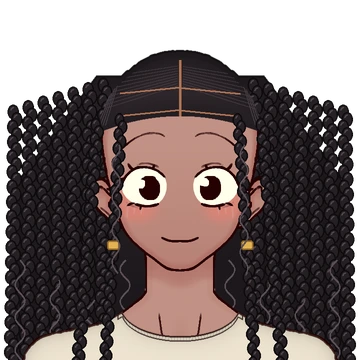
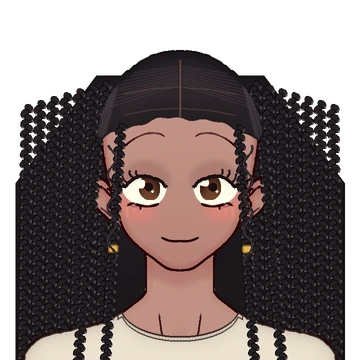
Bloom: prettier portrait eyes, lip makeup, softer parts, lower hairline, better hair texture
- Portrait eyes: almond shape, winged liner, curled lashes, warm brown irises with a second sparkle, soft lid shadow
- Makeup tab in the wardrobe: bare, clear gloss, rosy, cocoa (coins) and berry (Wellness level 2); lips show on the chat portrait and tint mini-me's mouth
- Thin, soft hair parts; hairline sits lower; coily texture on puffs and plaited texture on braids
- Code-drawn baby hair removed until Kymari's hand-drawn edges arrive

Claude-Session: https://claude.ai/code/session_016YGNXWNPLjq7FU6Tui6e5G

Changed region(s): [[0.0, 0.1528, 1.0, 1.0], [0.6111, 0.7639, 0.6417, 0.825]]

diff --git a/index.html b/index.html
@@ -717,6 +717,8 @@ nav.tabs a[href="#shop"]{background-color:var(--green)}
 .bb-earn{background:var(--paper);border-radius:12px;padding:.8rem 1rem;box-shadow:var(--shadow);margin-bottom:1rem;font-size:.9rem}
 #bb-chat .chat{display:grid;grid-template-columns:160px 1fr;gap:1rem;align-items:center}
 #bb-chat .chat img{width:160px;height:160px;border-radius:12px;background:var(--pink-2);object-fit:cover}
+.bb-pwrap{position:relative;width:160px;height:160px}
+#bb-chat .chat #bb-lips{position:absolute;inset:0;background:none}
 #bb-chat .dlg-body{background-image:none;background:#fffdf8}
 #bb-chat,#bb-chat .btn{color:#2b2a22}
 #bb-chat .btn{background:#fff;font-size:.9rem;font-weight:600}
@@ -725,7 +727,7 @@ nav.tabs a[href="#shop"]{background-color:var(--green)}
 #bb-chat .dlg-head h2{color:var(--ink)}
 #bb-say{font-family:var(--body);font-size:1.08rem;font-weight:500;line-height:1.55;color:#2b2a22;background:#fff;border:1.5px solid rgba(43,42,34,.25);border-radius:12px;padding:.8rem 1rem;margin:0}
 #bb-tasks .mini{font-size:.95rem;color:#2b2a22;background:#fff}
-@media (max-width:760px){ #bb-chat .chat{grid-template-columns:1fr} #bb-chat .chat img{width:120px;height:120px} }
+@media (max-width:760px){ #bb-chat .chat{grid-template-columns:1fr} #bb-chat .chat img,.bb-pwrap{width:120px;height:120px} }
 .bb-pet{position:absolute;z-index:1;border:0;background:none;padding:0;cursor:pointer;left:calc(var(--px,170)*1px*var(--s));top:calc((101px - var(--h)*1px)*var(--s));width:calc(var(--w)*1px*var(--s));height:calc(var(--h)*1px*var(--s))}
 .bb-me{z-index:2}
 .bb-pet-img{--s:4;display:block;width:calc(var(--w)*1px*var(--s));height:calc(var(--h)*1px*var(--s));background:var(--sheet,url(assets/bloom-pets.webp)) no-repeat;background-size:calc(var(--sw,96)*1px*var(--s)) calc(var(--sh,138)*1px*var(--s));background-position:calc(var(--fx)*-1px*var(--s)) calc(var(--fy)*-1px*var(--s));image-rendering:pixelated}
@@ -781,6 +783,7 @@ nav.tabs a[href="#shop"]{background-color:var(--green)}
 .cas-tile:hover,.cas-tile:focus-visible{transform:translateY(-2px);border-color:var(--pink-deep)}
 .cas-tile[aria-pressed=true]{border-color:#2b1e2e;box-shadow:0 0 0 3px #f8d7e3,0 3px 0 #2b1e2e}
 .cas-thumb{width:96px;height:84px;background-repeat:no-repeat;background-size:calc(26px*var(--S)) auto;background-position:center calc(var(--cy)*-1px*var(--S));image-rendering:pixelated;border-radius:8px;background-color:#fff4e6}
+.cas-thumb.lips{background-size:576px 576px;background-position:-240px -350px;image-rendering:auto}
 .cas-tile.locked .cas-thumb{filter:grayscale(.7);opacity:.55}
 .cas-tile.locked .cas-name{opacity:.6}
 .cas-need{font-size:.72rem;color:#7b6a5c;font-weight:700}
@@ -1006,7 +1009,7 @@ nav.tabs a[href="#shop"]{background-color:var(--green)}
 <dialog id="bb-chat" aria-labelledby="bb-say">
   <div class="dlg-head" style="background:#f9ecd9"><h2>My World</h2><button class="x" data-close aria-label="Close">✕</button></div>
   <div class="dlg-body">
-    <div class="chat"><img id="bb-portrait" alt=""><p id="bb-say"></p></div>
+    <div class="chat"><div class="bb-pwrap"><img id="bb-portrait" alt=""><img id="bb-lips" alt="" hidden></div><p id="bb-say"></p></div>
     <div class="mini-list" id="bb-tasks" hidden></div>
   </div>
   <div class="dlg-foot"><div class="row">
@@ -2249,13 +2252,15 @@ const BB_WEAR={
     {id:"sweater",name:"Leaf sweater",lv:["well",2],c:["ecdec4","cec0a6"]},{id:"hoodie_petrol",name:"Petrol hoodie",lv:["home",3],c:["1c5c6e","0e4152"]},{id:"tank",name:"White tank",price:15,c:["faf7f0","d2ccc2"]}],
   bottom:[{id:"sage",name:"Sage skirt",price:0,sw:"97b479"},{id:"denim",name:"Denim skirt",price:20,c:["4060a8","304884"]},{id:"amber",name:"Amber skirt",price:15,c:["f4aa34","d68424"]},
     {id:"tan",name:"Tan skirt",price:15,c:["c4aa70","a08856"]},{id:"black",name:"Black skirt",price:15,c:["3a3844","24222c"]}],
-  legs:[{id:"black",name:"Black socks",price:0,sw:"221d20"},{id:"white",name:"White socks",price:12,socks:1,sw:"faf7f0"},{id:"boots",name:"Brown boots",price:20,c:["5c3a2c","42281e"],from:5},{id:"rain",name:"Rain boots",lv:["clean",3],c:["facc3c","d8a828"],from:4}]
+  legs:[{id:"black",name:"Black socks",price:0,sw:"221d20"},{id:"white",name:"White socks",price:12,socks:1,sw:"faf7f0"},{id:"boots",name:"Brown boots",price:20,c:["5c3a2c","42281e"],from:5},{id:"rain",name:"Rain boots",lv:["clean",3],c:["facc3c","d8a828"],from:4}],
+  lips:[{id:"none",name:"Bare lips",price:0,sw:"c98a74"},{id:"gloss",name:"Clear gloss",price:0,sw:"e0a99c",px:"c8786c"},{id:"rosy",name:"Rosy combo",price:15,sw:"d6767f",px:"c85a68"},
+    {id:"cocoa",name:"Cocoa combo",price:15,sw:"aa6856",px:"8e4c3c"},{id:"berry",name:"Berry",lv:["well",2],sw:"922c46",px:"8a2840"}]
 };
-const BB_SLOTS=[["hair","Hair"],["top","Tops"],["bottom","Skirts"],["legs","Socks & shoes"]];
+const BB_SLOTS=[["hair","Hair"],["top","Tops"],["bottom","Skirts"],["legs","Socks & shoes"],["lips","Makeup"]];
 function bbWearItem(slot,id){ return BB_WEAR[slot].find(i=>i.id===id)||BB_WEAR[slot][0]; }
 function bbOwnsWear(b,slot,id){ const it=bbWearItem(slot,id); if(it.lv) return bbLevel(b.xp[it.lv[0]]).level>=it.lv[1]; return !it.price || b.closet.includes(slot+":"+id); }
 function bbLockText(it){ if(it.lv){ const k=BB_SKILLS.find(q=>q.id===it.lv[0]); return `${k.name} level ${it.lv[1]}`; } return `${it.price} coins`; }
-function bbFancy(it){ return !!(it.price||it.lv); }   // anything that isn't a starter piece
+function bbFancy(it){ return !!(it.price||it.lv||it.px); }   // anything that isn't a starter piece
 function bbSwatch(it){ const c=it.stripe?`repeating-linear-gradient(180deg,#${it.stripe[0]} 0 6px,#${it.stripe[2]} 6px 12px)`:"#"+(it.sw||(it.c&&it.c[0])); return `<span class="bb-swatch" style="background:${c}" aria-hidden="true"></span>`; }
 function bbNeed(l){ return 40+20*(l-1); }   // XP to go from level l to l+1
 function bbLevel(xp){ let l=1; while(xp>=bbNeed(l)){ xp-=bbNeed(l); l++; } return {level:l, into:xp, need:bbNeed(l)}; }
@@ -2266,7 +2271,7 @@ const BB_LINES={
   proud:"You did it! I'm really proud of you."
 };
 const bbUI={editing:false, selected:null, fresh:null, levelUp:null, dressing:false};
-function bb(){ const d=state.meta.bloom||{}; return {coins:d.coins||0, owned:d.owned||BB_ITEMS.filter(i=>i.starter).map(i=>i.id), stored:d.stored||[], pos:d.pos||{}, flip:d.flip||{}, rewarded:d.rewarded||{}, since:d.since||0, lastWin:d.lastWin||0, pets:d.pets||[], pet:d.pet||null, closet:d.closet||[], wear:Object.assign({hair:"curls",top:"cream",bottom:"sage",legs:"black"},d.wear||{}), xp:Object.assign({clean:0,home:0,well:0},d.xp||{})}; }
+function bb(){ const d=state.meta.bloom||{}; return {coins:d.coins||0, owned:d.owned||BB_ITEMS.filter(i=>i.starter).map(i=>i.id), stored:d.stored||[], pos:d.pos||{}, flip:d.flip||{}, rewarded:d.rewarded||{}, since:d.since||0, lastWin:d.lastWin||0, pets:d.pets||[], pet:d.pet||null, closet:d.closet||[], wear:Object.assign({hair:"curls",top:"cream",bottom:"sage",legs:"black",lips:"none"},d.wear||{}), xp:Object.assign({clean:0,home:0,well:0},d.xp||{})}; }
 function bbSave(b){ putMeta({bloom:JSON.parse(JSON.stringify(b))}); }
 function bloomRewards(){
   const b=bb(); let changed=false; const ups=[];
@@ -2317,7 +2322,7 @@ function viewWorld(){
   <p class="bb-earn">Levels grow when you finish Board tasks in Cleaning, Home or Wellness (Mindfulness counts too): tiny 10 XP, small 20, big 40.</p>`;
 }
 // Wardrobe dialog: try anything on, keep what you own.
-const BB_CROP={hair:[0,26],top:[15,16],bottom:[27,12],legs:[34,17]};
+const BB_CROP={hair:[0,26],top:[15,16],bottom:[27,12],legs:[34,17],lips:[6,12]};
 const cas={wear:null, slot:"hair", view:0};
 function bbOpenCas(){ cas.wear=Object.assign({},bb().wear); cas.view=0; bbCasRender(); $("#bb-cas").showModal(); }
 function bbCasStage(){ const im=$("#cas-me"); const kind=cas.view===0?"front":"side";
@@ -2330,7 +2335,10 @@ function bbCasRender(){ const b=bb();
       <span class="cas-thumb" data-thumb="${it.id}" style="--S:${S};--cy:${cy}"></span>
       ${own?"":`<img class="bb-lock" src="assets/bloom-ico-lock.webp" alt="">`}
       <span class="cas-name">${esc(it.name)}</span>${own?"":`<span class="cas-need">${bbLockText(it)}</span>`}</button>`; }).join("");
-  BB_WEAR[cas.slot].forEach(it=>{ const w=Object.assign({},cas.wear,{[cas.slot]:it.id});
+  if(cas.slot==="lips"){ const por=bbPortraitPath("steady");
+    BB_WEAR.lips.forEach(it=>{ const el=document.querySelector(`[data-thumb="${it.id}"]`); if(!el) return; el.classList.add("lips");
+      el.style.backgroundImage=(it.id==="none"?"":`url(assets/bloom-lips-${it.id}-steady.webp),`)+`url(${por})`; }); }
+  else BB_WEAR[cas.slot].forEach(it=>{ const w=Object.assign({},cas.wear,{[cas.slot]:it.id});
     bbRendered(w,"front",0).then(u=>{ const el=document.querySelector(`[data-thumb="${it.id}"]`); if(el) el.style.backgroundImage=`url(${u})`; }); });
   const locked=BB_SLOTS.map(([slot])=>[slot,bbWearItem(slot,cas.wear[slot])]).filter(([slot,it])=>!bbOwnsWear(b,slot,it.id));
   const tr=$("#cas-try"); tr.hidden=!locked.length;
@@ -2396,7 +2404,8 @@ function bbHex(h){ return [0,2,4].map(i=>parseInt(h.slice(i,i+2),16)); }
 function bbRecolor(img,w){
   const c=document.createElement("canvas"); c.width=img.naturalWidth; c.height=img.naturalHeight; const x=c.getContext("2d"); x.drawImage(img,0,0);
   const top=bbWearItem("top",w.top), bot=bbWearItem("bottom",w.bottom), legs=bbWearItem("legs",w.legs);
-  if(!bbFancy(top)&&!bbFancy(bot)&&!bbFancy(legs)) return c.toDataURL();
+  const lip=bbWearItem("lips",w.lips);
+  if(!bbFancy(top)&&!bbFancy(bot)&&!bbFancy(legs)&&!lip.px) return c.toDataURL();
   const W=c.width, H=c.height, im=x.getImageData(0,0,W,H), d=im.data, role=new Array(W*H).fill(""), lum=i=>d[i]*.3+d[i+1]*.59+d[i+2]*.11;
   let t0=99, sb=0, tl=[999,0], sl=[999,0];
   for(let y=0;y<H;y++) for(let X=0;X<W;X++){ const i=(y*W+X)*4; if(d[i+3]<128) continue; const [h,l,s]=bbHls(d[i],d[i+1],d[i+2]); let r="";
@@ -2412,6 +2421,7 @@ function bbRecolor(img,w){
     else if(r==="dark"&&y>sb&&bbFancy(legs)){ const inner=isDark(X-1,y)&&isDark(X+1,y)&&isDark(X,y-1)&&isDark(X,y+1);
       if(legs.socks){ const col= y<sb+3 ? (inner?"dc485c":null) : (y<bottomOf(X)-1 ? (inner?"faf7f0":"2b1e2e") : null); if(col) bbHex(col).forEach((v,k)=>d[i+k]=v); }
       else if(inner&&y>=sb+legs.from) bbHex(legs.c[0]).forEach((v,k)=>d[i+k]=v); } }
+  if(lip.px){ const L=bbHex(lip.px); for(let i=0;i<d.length;i+=4) if(d[i]===176&&d[i+1]===92&&d[i+2]===72) { d[i]=L[0]; d[i+1]=L[1]; d[i+2]=L[2]; } }
   x.putImageData(im,0,0); return c.toDataURL();
 }
 function bbPath(set,kind,i){ return `assets/bloom-${set}${kind==="front"?"me-"+i:kind==="sit"?"me-sit":"side-"+i}.webp`; }
@@ -2431,7 +2441,7 @@ function bbBuildDress(w,k){ bbDress.busy=k; const set=bbWearItem("hair",w.hair).
 const bbImgs={}, bbRC={};
 function bbLoadSet(set){ if(!bbImgs[set]){ const load=src=>new Promise(res=>{ const im=new Image(); im.onload=()=>res(im); im.onerror=()=>res(null); im.src=src; });
   bbImgs[set]=Promise.all([0,1].map(i=>load(bbPath(set,"front",i))).concat([0,1,2,3,4,5,6,7].map(i=>load(bbPath(set,"side",i))),[load(bbPath(set,"sit",0))])); } return bbImgs[set]; }
-function bbRendered(w,kind,i){ const set=bbWearItem("hair",w.hair).set, k=[w.hair,w.top,w.bottom,w.legs,kind,i].join("|");
+function bbRendered(w,kind,i){ const set=bbWearItem("hair",w.hair).set, k=[w.hair,w.top,w.bottom,w.legs,w.lips,kind,i].join("|");
   if(bbRC[k]) return Promise.resolve(bbRC[k]);
   return bbLoadSet(set).then(ims=>{ const im=kind==="front"?ims[i]:kind==="sit"?ims[10]:ims[2+i]; let u=""; try{ u=im?bbRecolor(im,w):""; }catch(e){} return bbRC[k]=u||bbPath(set,kind,i); }); }
 const bbWalk={x:110, dir:1, mode:"idle", until:0, frame:0, last:0, nextSay:0, raf:0};
@@ -2540,7 +2550,8 @@ function bloomAfterRender(){
 }
 addEventListener("resize",()=>{ if(currentView()==="world") bbScale(); });
 function bbOpenChat(){
-  const m=bbMood(); const pim=$("#bb-portrait"); pim.src=bbPortraitPath(bbPortrait(m)); bbPortraitFor(bbPortrait(m)).then(u=>{ pim.src=u; }); $("#bb-say").textContent=BB_LINES[m]; $("#bb-tasks").hidden=true; $("#bb-chat").showModal();
+  const m=bbMood(); const pim=$("#bb-portrait"); pim.src=bbPortraitPath(bbPortrait(m)); bbPortraitFor(bbPortrait(m)).then(u=>{ pim.src=u; });
+  const lp=bb().wear.lips, lim=$("#bb-lips"); lim.hidden=!lp||lp==="none"; if(!lim.hidden) lim.src=`assets/bloom-lips-${lp}-${bbPortrait(m)}.webp`; $("#bb-say").textContent=BB_LINES[m]; $("#bb-tasks").hidden=true; $("#bb-chat").showModal();
 }
 document.addEventListener("click",e=>{
   const a=e.target.closest("[data-bb]"); const buy=e.target.closest("[data-bb-buy]"); const place=e.target.closest("[data-bb-place]");
